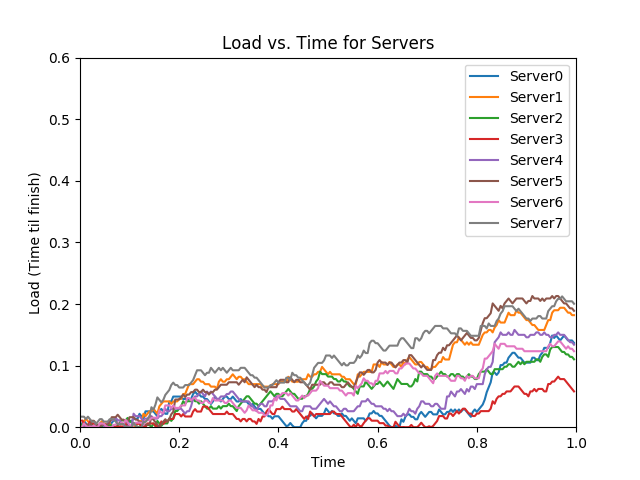
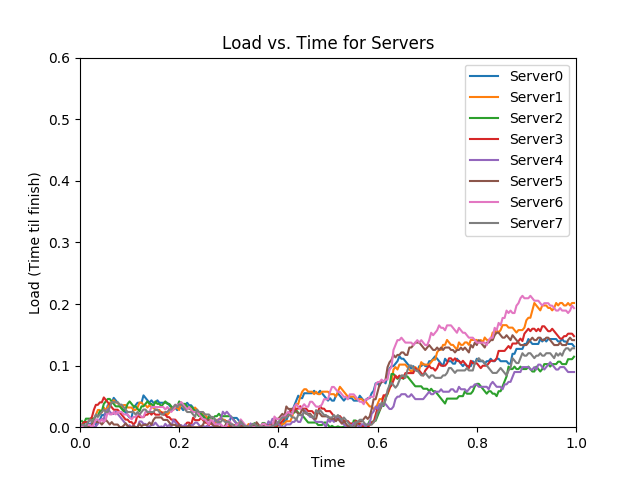
Added average calculations

Changed region(s): [[0.125, 0.5938, 0.9062, 0.9062]]

diff --git a/main.py b/main.py
@@ -23,21 +23,11 @@ num_servers = 8
 processing_time = 0.004
 
 #value for powers of x choices
-powers_of_x_value = 8
+powers_of_x_value = 3
 
 #whether or not a load balancer drops
 LOAD_BALANCER_DROPS = False
 
-
-'''
-mean_flow_size = 98
-
-num_clients = 1000
-packets_per_client = 10
-num_load_balancers = 10
-num_servers = 100
-processing_time = 0.01 # time per packet
-'''
 
 
 assignment_methods = ["RandomAssignment", "ConsistentHashing", "PowersOfTwoNoMemory", "PowersOfTwoWithMemory", "PowersOfXWithMemory"]
@@ -217,6 +207,13 @@ def run_mean_and_stdev_plotter(servers, assignment_method):
 		
 	plt.plot(np.array([x for x in times]), np.array([y for y in means]), label="mean")
 	plt.plot(np.array([x for x in times]), np.array([y for y in stdevs]), label="stdev")
+
+	avg_mean = sum(means)/len(means)
+	avg_stdev = sum(stdevs)/len(stdevs)
+
+	print("Mean load: %5.3f" % avg_mean)
+	print("Mean standard deviation: %5.3f" % avg_stdev)
+
 	plt.legend(loc="best")
 	plt.xlabel('Time')
 	plt.ylabel('Mean / stdev server load')
